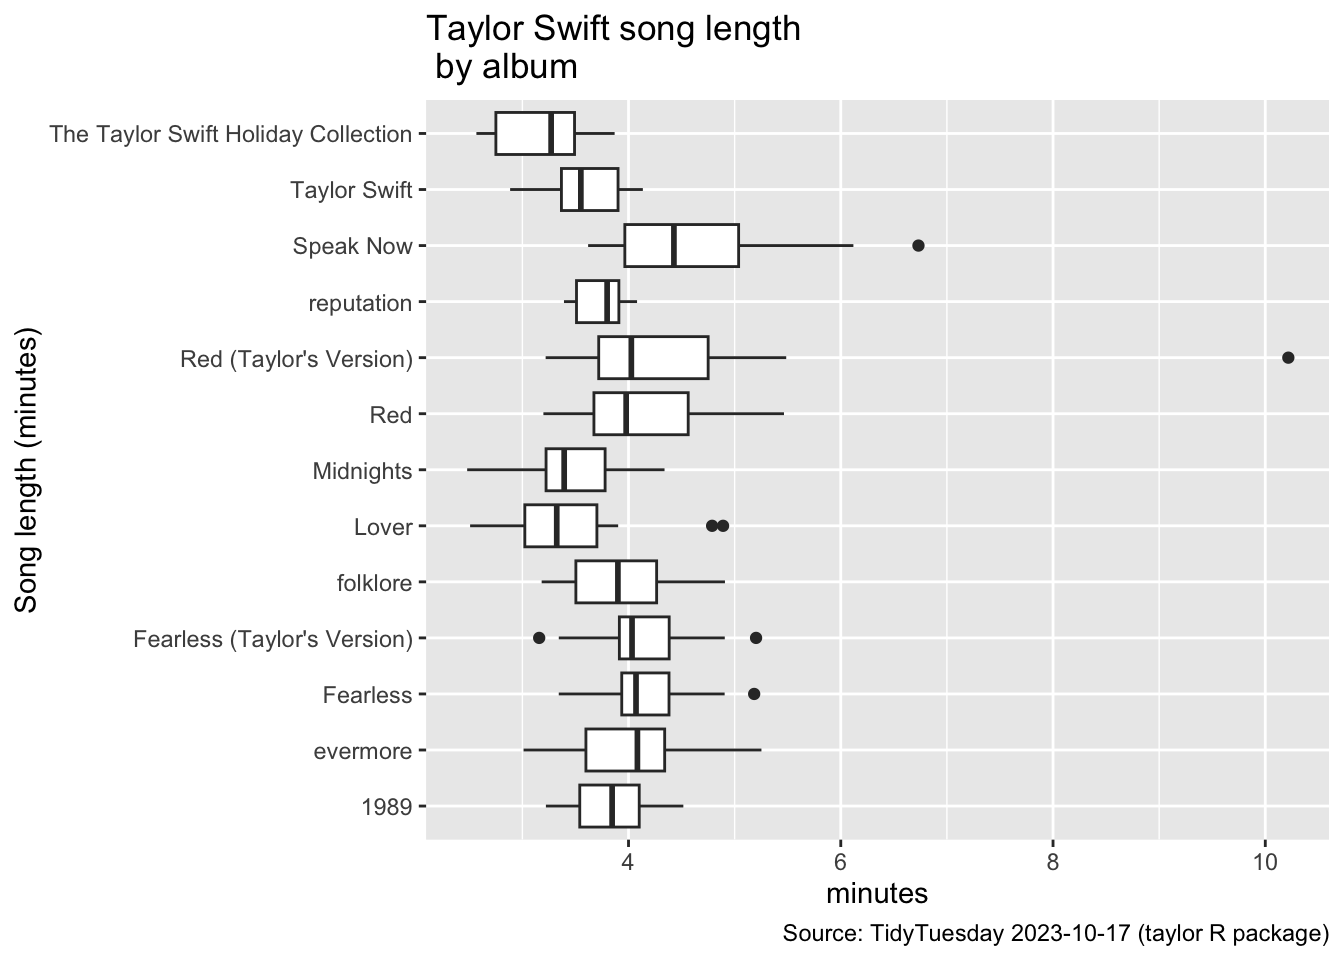
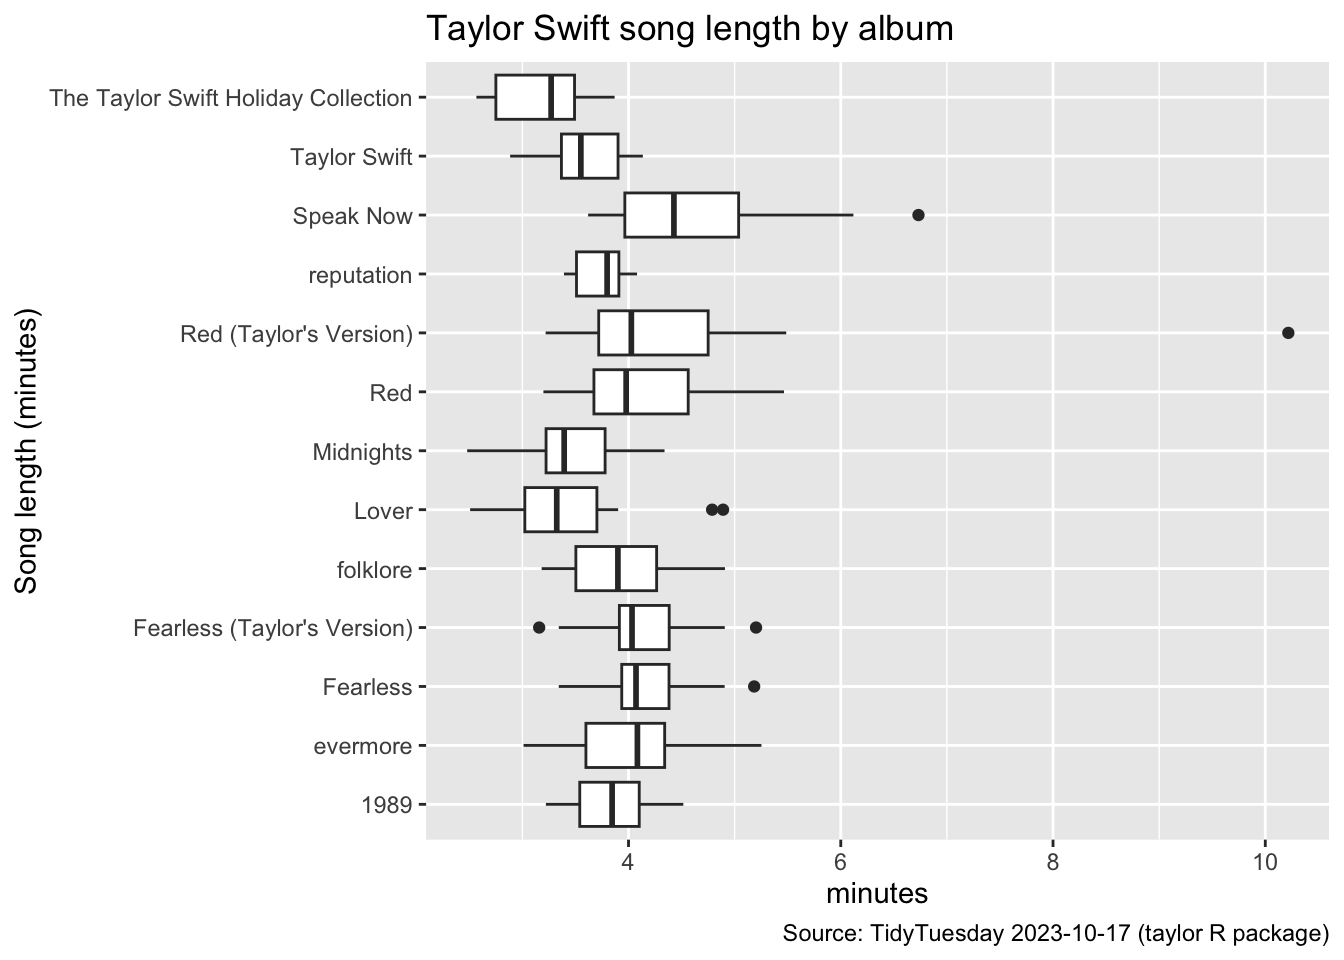
taylordone

diff --git a/docs/taylorswift.html b/docs/taylorswift.html
@@ -283,7 +283,7 @@ date (1): album_release
 <span id="cb9-5"><a href="#cb9-5" aria-hidden="true" tabindex="-1"></a>    <span class="fu">geom_boxplot</span>() <span class="sc">+</span></span>
 <span id="cb9-6"><a href="#cb9-6" aria-hidden="true" tabindex="-1"></a>    <span class="fu">labs</span>(</span>
 <span id="cb9-7"><a href="#cb9-7" aria-hidden="true" tabindex="-1"></a>    <span class="at">y =</span> <span class="st">"Song length (minutes)"</span>,</span>
-<span id="cb9-8"><a href="#cb9-8" aria-hidden="true" tabindex="-1"></a>    <span class="at">title =</span> <span class="st">"Taylor Swift song length </span><span class="sc">\n</span><span class="st"> by album"</span>,</span>
+<span id="cb9-8"><a href="#cb9-8" aria-hidden="true" tabindex="-1"></a>    <span class="at">title =</span> <span class="st">"Taylor Swift song length by album"</span>,</span>
 <span id="cb9-9"><a href="#cb9-9" aria-hidden="true" tabindex="-1"></a>    <span class="at">caption =</span> <span class="st">"Source: TidyTuesday 2023-10-17 (taylor R package)"</span></span>
 <span id="cb9-10"><a href="#cb9-10" aria-hidden="true" tabindex="-1"></a>  )</span></code></pre></div><button title="Copy to Clipboard" class="code-copy-button"><i class="bi"></i></button></div>
 </details>
@@ -295,6 +295,38 @@ date (1): album_release
 </div>
 </div>
 </div>
+<div class="cell">
+<details class="code-fold">
+<summary>Show code</summary>
+<div class="code-copy-outer-scaffold"><div class="sourceCode cell-code" id="cb10"><pre class="sourceCode r code-with-copy"><code class="sourceCode r"><span id="cb10-1"><a href="#cb10-1" aria-hidden="true" tabindex="-1"></a>taylor_all_songs <span class="sc">|&gt;</span></span>
+<span id="cb10-2"><a href="#cb10-2" aria-hidden="true" tabindex="-1"></a>  <span class="fu">drop_na</span>(album_name, duration_ms) <span class="sc">|&gt;</span></span>
+<span id="cb10-3"><a href="#cb10-3" aria-hidden="true" tabindex="-1"></a>  <span class="fu">mutate</span>(<span class="at">minutes =</span> duration_ms <span class="sc">/</span> <span class="dv">60000</span>) <span class="sc">|&gt;</span></span>
+<span id="cb10-4"><a href="#cb10-4" aria-hidden="true" tabindex="-1"></a>  <span class="fu">group_by</span>(album_name) <span class="sc">|&gt;</span></span>
+<span id="cb10-5"><a href="#cb10-5" aria-hidden="true" tabindex="-1"></a>  <span class="fu">summarize</span>(<span class="at">median_min =</span> <span class="fu">median</span>(minutes), <span class="at">n_songs =</span> <span class="fu">n</span>()) <span class="sc">|&gt;</span></span>
+<span id="cb10-6"><a href="#cb10-6" aria-hidden="true" tabindex="-1"></a>  <span class="fu">arrange</span>(median_min)</span></code></pre></div><button title="Copy to Clipboard" class="code-copy-button"><i class="bi"></i></button></div>
+</details>
+<div class="cell-output cell-output-stdout">
+<pre><code># A tibble: 13 × 3
+   album_name                          median_min n_songs
+   &lt;chr&gt;                                    &lt;dbl&gt;   &lt;int&gt;
+ 1 The Taylor Swift Holiday Collection       3.27       6
+ 2 Lover                                     3.32      18
+ 3 Midnights                                 3.39      20
+ 4 Taylor Swift                              3.55      15
+ 5 reputation                                3.80      15
+ 6 1989                                      3.85      16
+ 7 folklore                                  3.9       17
+ 8 Red                                       3.98      22
+ 9 Red (Taylor's Version)                    4.03      30
+10 Fearless (Taylor's Version)               4.03      26
+11 Fearless                                  4.07      19
+12 evermore                                  4.08      17
+13 Speak Now                                 4.43      17</code></pre>
+</div>
+</div>
+<p>This boxplot shows the distribution of Taylor Swift’s song lengths in minutes for each album. Speak Now has the longest median song length of 4.43 minutes, while Taylor Swift Holiday Collection has the shortest median song lengh of 3.27. The biggest outlier is on Red (Taylor’s Version), at just over 10 minutes, which is the 10-minute version of “All Too Well.</p>
+<p><strong>Data source:</strong> <a href="https://github.com/rfordatascience/tidytuesday/tree/main/data/2023/2023-10-17">TidyTuesday 2023-10-17: Taylor Swift songs</a></p>
+<p><strong>Original source:</strong> Thompson W (2026). <em>taylor: Lyrics and Song Data for Taylor Swift’s Discography.</em> R package version 4.0.0, <a href="https://taylor.wjakethompson.com" class="uri">https://taylor.wjakethompson.com</a>.</p>
 
 
 <!-- -->
@@ -752,41 +784,56 @@ date (1): album_release
     }
   });
   </script><div class="modal fade" id="quarto-embedded-source-code-modal" tabindex="-1" aria-labelledby="quarto-embedded-source-code-modal-label" aria-hidden="true"><div class="modal-dialog modal-dialog-scrollable"><div class="modal-content"><div class="modal-header"><h5 class="modal-title" id="quarto-embedded-source-code-modal-label">Source Code</h5><button class="btn-close" data-bs-dismiss="modal"></button></div><div class="modal-body"><div class="">
-<div class="code-copy-outer-scaffold"><div class="sourceCode" id="cb10" data-shortcodes="false"><pre class="sourceCode markdown code-with-copy"><code class="sourceCode markdown"><span id="cb10-1"><a href="#cb10-1" aria-hidden="true" tabindex="-1"></a><span class="co">---</span></span>
-<span id="cb10-2"><a href="#cb10-2" aria-hidden="true" tabindex="-1"></a><span class="an">title:</span><span class="co"> "Taylor Swift"</span></span>
-<span id="cb10-3"><a href="#cb10-3" aria-hidden="true" tabindex="-1"></a><span class="an">description:</span><span class="co"> |</span></span>
-<span id="cb10-4"><a href="#cb10-4" aria-hidden="true" tabindex="-1"></a><span class="co">  Analysis of Taylor Swift data from TidyTuesday</span></span>
-<span id="cb10-5"><a href="#cb10-5" aria-hidden="true" tabindex="-1"></a><span class="an">author:</span><span class="co"> Davina Liu</span></span>
-<span id="cb10-6"><a href="#cb10-6" aria-hidden="true" tabindex="-1"></a><span class="an">date:</span><span class="co"> September 28, 2026</span></span>
-<span id="cb10-7"><a href="#cb10-7" aria-hidden="true" tabindex="-1"></a><span class="an">format:</span></span>
-<span id="cb10-8"><a href="#cb10-8" aria-hidden="true" tabindex="-1"></a><span class="co">  html:</span></span>
-<span id="cb10-9"><a href="#cb10-9" aria-hidden="true" tabindex="-1"></a><span class="co">    code-fold: true</span></span>
-<span id="cb10-10"><a href="#cb10-10" aria-hidden="true" tabindex="-1"></a><span class="co">    code-summary: "Show code"</span></span>
-<span id="cb10-11"><a href="#cb10-11" aria-hidden="true" tabindex="-1"></a><span class="co">    code-tools: true</span></span>
-<span id="cb10-12"><a href="#cb10-12" aria-hidden="true" tabindex="-1"></a><span class="co">---</span></span>
-<span id="cb10-13"><a href="#cb10-13" aria-hidden="true" tabindex="-1"></a></span>
-<span id="cb10-16"><a href="#cb10-16" aria-hidden="true" tabindex="-1"></a><span class="in">```{r}</span></span>
-<span id="cb10-17"><a href="#cb10-17" aria-hidden="true" tabindex="-1"></a><span class="fu">library</span>(tidyverse)</span>
-<span id="cb10-18"><a href="#cb10-18" aria-hidden="true" tabindex="-1"></a><span class="in">```</span></span>
-<span id="cb10-19"><a href="#cb10-19" aria-hidden="true" tabindex="-1"></a></span>
-<span id="cb10-22"><a href="#cb10-22" aria-hidden="true" tabindex="-1"></a><span class="in">```{r}</span></span>
-<span id="cb10-23"><a href="#cb10-23" aria-hidden="true" tabindex="-1"></a>taylor_album_songs <span class="ot">&lt;-</span> readr<span class="sc">::</span><span class="fu">read_csv</span>(<span class="st">'https://raw.githubusercontent.com/rfordatascience/tidytuesday/main/data/2023/2023-10-17/taylor_album_songs.csv'</span>)</span>
-<span id="cb10-24"><a href="#cb10-24" aria-hidden="true" tabindex="-1"></a>taylor_all_songs <span class="ot">&lt;-</span> readr<span class="sc">::</span><span class="fu">read_csv</span>(<span class="st">'https://raw.githubusercontent.com/rfordatascience/tidytuesday/main/data/2023/2023-10-17/taylor_all_songs.csv'</span>)</span>
-<span id="cb10-25"><a href="#cb10-25" aria-hidden="true" tabindex="-1"></a>taylor_albums <span class="ot">&lt;-</span> readr<span class="sc">::</span><span class="fu">read_csv</span>(<span class="st">'https://raw.githubusercontent.com/rfordatascience/tidytuesday/main/data/2023/2023-10-17/taylor_albums.csv'</span>)</span>
-<span id="cb10-26"><a href="#cb10-26" aria-hidden="true" tabindex="-1"></a><span class="in">```</span></span>
-<span id="cb10-27"><a href="#cb10-27" aria-hidden="true" tabindex="-1"></a></span>
-<span id="cb10-30"><a href="#cb10-30" aria-hidden="true" tabindex="-1"></a><span class="in">```{r}</span></span>
-<span id="cb10-31"><a href="#cb10-31" aria-hidden="true" tabindex="-1"></a>taylor_all_songs <span class="sc">|&gt;</span></span>
-<span id="cb10-32"><a href="#cb10-32" aria-hidden="true" tabindex="-1"></a>    <span class="fu">filter</span>(<span class="sc">!</span><span class="fu">is.na</span>(album_name), <span class="sc">!</span><span class="fu">is.na</span>(duration_ms)) <span class="sc">|&gt;</span></span>
-<span id="cb10-33"><a href="#cb10-33" aria-hidden="true" tabindex="-1"></a>    <span class="fu">mutate</span>(<span class="at">minutes =</span> duration_ms <span class="sc">/</span> <span class="dv">60000</span>) <span class="sc">|&gt;</span></span>
-<span id="cb10-34"><a href="#cb10-34" aria-hidden="true" tabindex="-1"></a>    <span class="fu">ggplot</span>(<span class="fu">aes</span>(<span class="at">x =</span> minutes, <span class="at">y =</span> album_name)) <span class="sc">+</span></span>
-<span id="cb10-35"><a href="#cb10-35" aria-hidden="true" tabindex="-1"></a>    <span class="fu">geom_boxplot</span>() <span class="sc">+</span></span>
-<span id="cb10-36"><a href="#cb10-36" aria-hidden="true" tabindex="-1"></a>    <span class="fu">labs</span>(</span>
-<span id="cb10-37"><a href="#cb10-37" aria-hidden="true" tabindex="-1"></a>    <span class="at">y =</span> <span class="st">"Song length (minutes)"</span>,</span>
-<span id="cb10-38"><a href="#cb10-38" aria-hidden="true" tabindex="-1"></a>    <span class="at">title =</span> <span class="st">"Taylor Swift song length </span><span class="sc">\n</span><span class="st"> by album"</span>,</span>
-<span id="cb10-39"><a href="#cb10-39" aria-hidden="true" tabindex="-1"></a>    <span class="at">caption =</span> <span class="st">"Source: TidyTuesday 2023-10-17 (taylor R package)"</span></span>
-<span id="cb10-40"><a href="#cb10-40" aria-hidden="true" tabindex="-1"></a>  )</span>
-<span id="cb10-41"><a href="#cb10-41" aria-hidden="true" tabindex="-1"></a><span class="in">```</span></span>
+<div class="code-copy-outer-scaffold"><div class="sourceCode" id="cb12" data-shortcodes="false"><pre class="sourceCode markdown code-with-copy"><code class="sourceCode markdown"><span id="cb12-1"><a href="#cb12-1" aria-hidden="true" tabindex="-1"></a><span class="co">---</span></span>
+<span id="cb12-2"><a href="#cb12-2" aria-hidden="true" tabindex="-1"></a><span class="an">title:</span><span class="co"> "Taylor Swift"</span></span>
+<span id="cb12-3"><a href="#cb12-3" aria-hidden="true" tabindex="-1"></a><span class="an">description:</span><span class="co"> |</span></span>
+<span id="cb12-4"><a href="#cb12-4" aria-hidden="true" tabindex="-1"></a><span class="co">  Analysis of Taylor Swift data from TidyTuesday</span></span>
+<span id="cb12-5"><a href="#cb12-5" aria-hidden="true" tabindex="-1"></a><span class="an">author:</span><span class="co"> Davina Liu</span></span>
+<span id="cb12-6"><a href="#cb12-6" aria-hidden="true" tabindex="-1"></a><span class="an">date:</span><span class="co"> September 28, 2026</span></span>
+<span id="cb12-7"><a href="#cb12-7" aria-hidden="true" tabindex="-1"></a><span class="an">format:</span></span>
+<span id="cb12-8"><a href="#cb12-8" aria-hidden="true" tabindex="-1"></a><span class="co">  html:</span></span>
+<span id="cb12-9"><a href="#cb12-9" aria-hidden="true" tabindex="-1"></a><span class="co">    code-fold: true</span></span>
+<span id="cb12-10"><a href="#cb12-10" aria-hidden="true" tabindex="-1"></a><span class="co">    code-summary: "Show code"</span></span>
+<span id="cb12-11"><a href="#cb12-11" aria-hidden="true" tabindex="-1"></a><span class="co">    code-tools: true</span></span>
+<span id="cb12-12"><a href="#cb12-12" aria-hidden="true" tabindex="-1"></a><span class="co">---</span></span>
+<span id="cb12-13"><a href="#cb12-13" aria-hidden="true" tabindex="-1"></a></span>
+<span id="cb12-16"><a href="#cb12-16" aria-hidden="true" tabindex="-1"></a><span class="in">```{r}</span></span>
+<span id="cb12-17"><a href="#cb12-17" aria-hidden="true" tabindex="-1"></a><span class="fu">library</span>(tidyverse)</span>
+<span id="cb12-18"><a href="#cb12-18" aria-hidden="true" tabindex="-1"></a><span class="in">```</span></span>
+<span id="cb12-19"><a href="#cb12-19" aria-hidden="true" tabindex="-1"></a></span>
+<span id="cb12-22"><a href="#cb12-22" aria-hidden="true" tabindex="-1"></a><span class="in">```{r}</span></span>
+<span id="cb12-23"><a href="#cb12-23" aria-hidden="true" tabindex="-1"></a>taylor_album_songs <span class="ot">&lt;-</span> readr<span class="sc">::</span><span class="fu">read_csv</span>(<span class="st">'https://raw.githubusercontent.com/rfordatascience/tidytuesday/main/data/2023/2023-10-17/taylor_album_songs.csv'</span>)</span>
+<span id="cb12-24"><a href="#cb12-24" aria-hidden="true" tabindex="-1"></a>taylor_all_songs <span class="ot">&lt;-</span> readr<span class="sc">::</span><span class="fu">read_csv</span>(<span class="st">'https://raw.githubusercontent.com/rfordatascience/tidytuesday/main/data/2023/2023-10-17/taylor_all_songs.csv'</span>)</span>
+<span id="cb12-25"><a href="#cb12-25" aria-hidden="true" tabindex="-1"></a>taylor_albums <span class="ot">&lt;-</span> readr<span class="sc">::</span><span class="fu">read_csv</span>(<span class="st">'https://raw.githubusercontent.com/rfordatascience/tidytuesday/main/data/2023/2023-10-17/taylor_albums.csv'</span>)</span>
+<span id="cb12-26"><a href="#cb12-26" aria-hidden="true" tabindex="-1"></a><span class="in">```</span></span>
+<span id="cb12-27"><a href="#cb12-27" aria-hidden="true" tabindex="-1"></a></span>
+<span id="cb12-30"><a href="#cb12-30" aria-hidden="true" tabindex="-1"></a><span class="in">```{r}</span></span>
+<span id="cb12-31"><a href="#cb12-31" aria-hidden="true" tabindex="-1"></a>taylor_all_songs <span class="sc">|&gt;</span></span>
+<span id="cb12-32"><a href="#cb12-32" aria-hidden="true" tabindex="-1"></a>    <span class="fu">filter</span>(<span class="sc">!</span><span class="fu">is.na</span>(album_name), <span class="sc">!</span><span class="fu">is.na</span>(duration_ms)) <span class="sc">|&gt;</span></span>
+<span id="cb12-33"><a href="#cb12-33" aria-hidden="true" tabindex="-1"></a>    <span class="fu">mutate</span>(<span class="at">minutes =</span> duration_ms <span class="sc">/</span> <span class="dv">60000</span>) <span class="sc">|&gt;</span></span>
+<span id="cb12-34"><a href="#cb12-34" aria-hidden="true" tabindex="-1"></a>    <span class="fu">ggplot</span>(<span class="fu">aes</span>(<span class="at">x =</span> minutes, <span class="at">y =</span> album_name)) <span class="sc">+</span></span>
+<span id="cb12-35"><a href="#cb12-35" aria-hidden="true" tabindex="-1"></a>    <span class="fu">geom_boxplot</span>() <span class="sc">+</span></span>
+<span id="cb12-36"><a href="#cb12-36" aria-hidden="true" tabindex="-1"></a>    <span class="fu">labs</span>(</span>
+<span id="cb12-37"><a href="#cb12-37" aria-hidden="true" tabindex="-1"></a>    <span class="at">y =</span> <span class="st">"Song length (minutes)"</span>,</span>
+<span id="cb12-38"><a href="#cb12-38" aria-hidden="true" tabindex="-1"></a>    <span class="at">title =</span> <span class="st">"Taylor Swift song length by album"</span>,</span>
+<span id="cb12-39"><a href="#cb12-39" aria-hidden="true" tabindex="-1"></a>    <span class="at">caption =</span> <span class="st">"Source: TidyTuesday 2023-10-17 (taylor R package)"</span></span>
+<span id="cb12-40"><a href="#cb12-40" aria-hidden="true" tabindex="-1"></a>  )</span>
+<span id="cb12-41"><a href="#cb12-41" aria-hidden="true" tabindex="-1"></a><span class="in">```</span></span>
+<span id="cb12-42"><a href="#cb12-42" aria-hidden="true" tabindex="-1"></a></span>
+<span id="cb12-45"><a href="#cb12-45" aria-hidden="true" tabindex="-1"></a><span class="in">```{r}</span></span>
+<span id="cb12-46"><a href="#cb12-46" aria-hidden="true" tabindex="-1"></a>taylor_all_songs <span class="sc">|&gt;</span></span>
+<span id="cb12-47"><a href="#cb12-47" aria-hidden="true" tabindex="-1"></a>  <span class="fu">drop_na</span>(album_name, duration_ms) <span class="sc">|&gt;</span></span>
+<span id="cb12-48"><a href="#cb12-48" aria-hidden="true" tabindex="-1"></a>  <span class="fu">mutate</span>(<span class="at">minutes =</span> duration_ms <span class="sc">/</span> <span class="dv">60000</span>) <span class="sc">|&gt;</span></span>
+<span id="cb12-49"><a href="#cb12-49" aria-hidden="true" tabindex="-1"></a>  <span class="fu">group_by</span>(album_name) <span class="sc">|&gt;</span></span>
+<span id="cb12-50"><a href="#cb12-50" aria-hidden="true" tabindex="-1"></a>  <span class="fu">summarize</span>(<span class="at">median_min =</span> <span class="fu">median</span>(minutes), <span class="at">n_songs =</span> <span class="fu">n</span>()) <span class="sc">|&gt;</span></span>
+<span id="cb12-51"><a href="#cb12-51" aria-hidden="true" tabindex="-1"></a>  <span class="fu">arrange</span>(median_min)</span>
+<span id="cb12-52"><a href="#cb12-52" aria-hidden="true" tabindex="-1"></a><span class="in">```</span></span>
+<span id="cb12-53"><a href="#cb12-53" aria-hidden="true" tabindex="-1"></a></span>
+<span id="cb12-54"><a href="#cb12-54" aria-hidden="true" tabindex="-1"></a>This boxplot shows the distribution of Taylor Swift's song lengths in minutes for each album. Speak Now has the longest median song length of 4.43 minutes, while Taylor Swift Holiday Collection has the shortest median song lengh of 3.27. The biggest outlier is on Red (Taylor's Version), at just over 10 minutes, which is the 10-minute version of "All Too Well.</span>
+<span id="cb12-55"><a href="#cb12-55" aria-hidden="true" tabindex="-1"></a></span>
+<span id="cb12-56"><a href="#cb12-56" aria-hidden="true" tabindex="-1"></a>**Data source:** <span class="co">[</span><span class="ot">TidyTuesday 2023-10-17: Taylor Swift songs</span><span class="co">](https://github.com/rfordatascience/tidytuesday/tree/main/data/2023/2023-10-17)</span></span>
+<span id="cb12-57"><a href="#cb12-57" aria-hidden="true" tabindex="-1"></a></span>
+<span id="cb12-58"><a href="#cb12-58" aria-hidden="true" tabindex="-1"></a>**Original source:** Thompson W (2026). *taylor: Lyrics and Song Data for Taylor Swift's Discography.* R package version 4.0.0, <span class="ot">&lt;https://taylor.wjakethompson.com&gt;</span>.</span>
 </code></pre></div><button title="Copy to Clipboard" class="code-copy-button" data-in-quarto-modal=""><i class="bi"></i></button></div>
 </div></div></div></div></div>
 </div> <!-- /content -->
